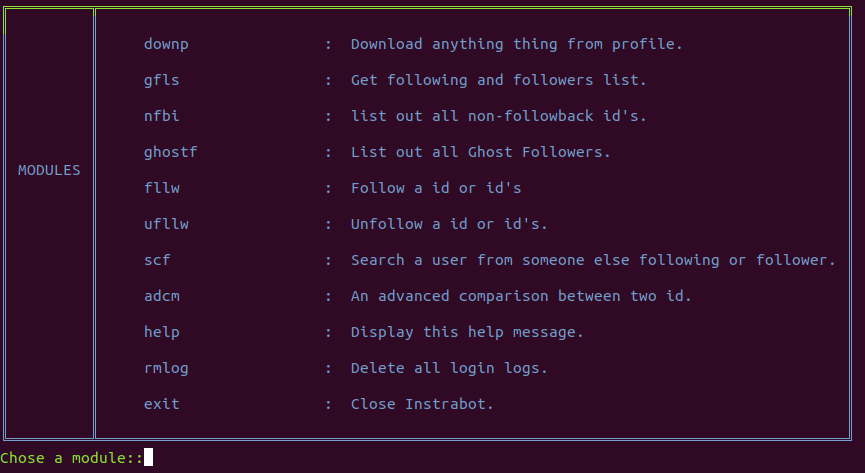
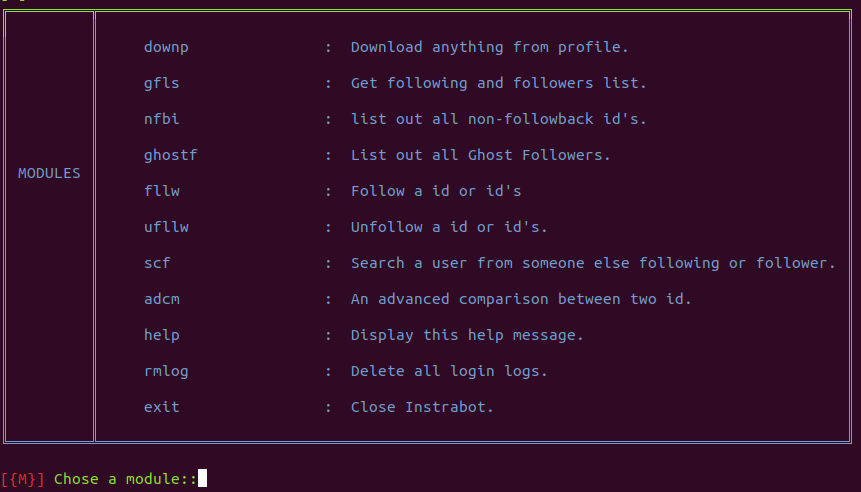
initial commit

diff --git a/instaploit.py b/instaploit.py
@@ -1,14 +1,14 @@
 import os,sys,time
 from itertools import islice
 from math import ceil
-from colorama import Fore,Cursor
-from terminaltables import AsciiTable,DoubleTable
+from terminaltables import DoubleTable
 import instaloader
 from instapy import InstaPy
 from comparison import comparisonID
 from instapy import smart_run
 from banner import randomBanners,ranbomTips
 from getpass import getpass
+
 
 
 exit_msg = "\033[91m\n[++] Shutting down ... Goodbye. (^_^)／\n\033[91m"
@@ -79,7 +79,7 @@ def Login():
         module = input("\n\033[91m[{M}]\033[92m Chose a module::\033[92m")
         module = module.lower()
         if module == "":
-            print("\033[91mChose a module::\033[91m")
+            print("\n\033[91m[{M}]\033[92m Chose a module::\033[92m")
         elif module == "exit":
             sys.exit(exit_msg)
         elif module == "home":
@@ -96,7 +96,7 @@ def Login():
             modulesForDownp()
             def downp():
                 global username,insta
-                module = input("\033[92mChoses a module::\033[92m")
+                module = input("\n\033[91m[{M}]\033[92m Chose a module::\033[92m")
 
                 if module == "df":
                     print("""\033[93m
@@ -113,7 +113,6 @@ def Login():
                     elif targetId == "exit":
                         sys.exit(exit_msg)
                     elif targetId == "home":
-                        insta.save_session_to_file()
                         main()
                     elif targetId == "help":
                         modulesForDownp()
@@ -125,7 +124,7 @@ def Login():
                     print("""\033[93m
 ┌══════════════════════════════════════════════════════════════════════════════════════┐
 █                                                                                      █
-█                                 Download the profile pic                             █
+█                                Download the profile pic                              █
 █                                                                                      █
 └══════════════════════════════════════════════════════════════════════════════════════┘ \033[93m""")
                     def dpp():
@@ -135,7 +134,6 @@ def Login():
                         elif targetId == "exit":
                             sys.exit(exit_msg)
                         elif targetId == "home":
-                            insta.save_session_to_file()
                             main()
                         elif targetId == "help":
                             modulesForDownp()
@@ -158,7 +156,6 @@ def Login():
                     if targetId == "back":
                         downp()
                     elif targetId == "exit":
-                        insta.save_session_to_file()
                         sys.exit(exit_msg)
                     elif targetId == "home":
                         main()
@@ -184,10 +181,8 @@ def Login():
                     if targetId == "back":
                         downp()
                     elif targetId == "exit":
-                        insta.save_session_to_file()
                         sys.exit(exit_msg)
                     elif targetId == "home":
-                        insta.save_session_to_file()
                         main()
                     elif targetId == "help":
                         modulesForDownp()
@@ -210,10 +205,8 @@ def Login():
                         if ShortCode == "back":
                             downp()
                         elif ShortCode == "exit":
-                            insta.save_session_to_file()
                             sys.exit(exit_msg)
                         elif ShortCode == "home":
-                            insta.save_session_to_file()
                             main()
                         elif ShortCode == "help":
                             downp()
@@ -242,10 +235,8 @@ def Login():
                     if targetId == "back":
                         downp()
                     elif targetId == "exit":
-                        insta.save_session_to_file()
                         sys.exit(exit_msg)
                     elif targetId == "home":
-                        insta.save_session_to_file()
                         main()
                     elif targetId == "help":
                         modulesForDownp()
@@ -266,10 +257,8 @@ def Login():
                     if targetId == "back":
                         downp()
                     elif targetId == "exit":
-                        insta.save_session_to_file()
                         sys.exit(exit_msg)
                     elif targetId == "home":
-                        insta.save_session_to_file()
                         main()
                     elif targetId == "help":
                         modulesForDownp()
@@ -522,7 +511,6 @@ def Login():
                     # ____________________________________________
 
                     print("\033[93m[+]List of following:\033[93m")
-                    print(calls)
                     for index,users in enumerate(following):
                         print(f'\033[97m{index+1}.{users.username}\033[97m')
                         index+= 1
@@ -794,7 +782,6 @@ def Login():
                 input("\033[92m[+]Press enter to continue \033[92m")
             adcm()
         elif module == "exit":
-            os.system("rm -r config")
             sys.exit(exit_msg)
 
         elif module == "back":
@@ -821,10 +808,10 @@ def Login():
 def Guest():
     global insta,target
     modulesForGuest()
-    module = input("\033[92mChose a module::\033[92m")
+    module = input("\n\033[91m[{M}]\033[92m Chose a module::\033[92m")
     module=module.lower()
     if module == "":
-        print("\033[91mChose a module::\033[91m")
+        print("\n\033[91m[{M}]\033[92m Chose a module::\033[92m")
     elif module == "exit":
         sys.exit(exit_msg)
     elif module == "home":
@@ -836,7 +823,7 @@ def Guest():
         def downt():
             global insta,target
             modulesForDownt()
-            module = input("\033[92mChoses a module::\033[92m")
+            module = input("\n\033[91m[{M}]\033[92m Chose a module::\033[92m")
 
             if module == "df":
                 print("""\033[93m
@@ -1108,7 +1095,7 @@ def modulesForGuest():
     time.sleep(.5)
     table_datas = [
     ["\n\033[94m\033[136m\n\n\n\n\n\nMODULES\n", """
-    downt               :  Download anything thing from profile.
+    downt               :  Download anything from profile.
 
     chgt                :  Change target.
 
@@ -1123,7 +1110,7 @@ def modulesForLogin():
     time.sleep(.5)
     table_datas = [
     ["\033[94m\033[136m\n\n\n\n\n\n\n\nMODULES\n", """
-    downp               :  Download anything thing from profile.
+    downp               :  Download anything from profile.
 
     gfls                :  Get following and followers list.
 
